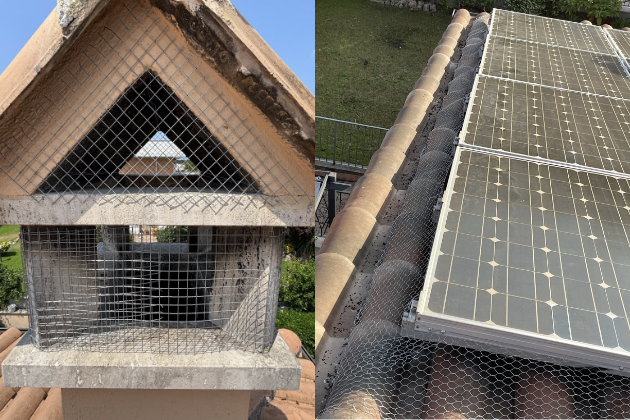
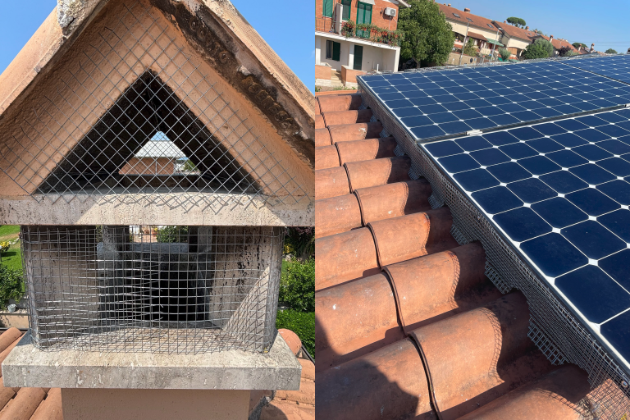
pictures

diff --git a/index.html b/index.html
@@ -46,7 +46,7 @@
         </div>
         <div class="img">
           <img
-            src="./src/images/cortesini_brothers.webp"
+            src="./src/images/cortesini_brothers_2.webp"
             alt="Fratelli Cortesini" />
         </div>
       </section>
@@ -105,7 +105,7 @@
               </div>
               <div class="img">
                 <img
-                  src="./src/images/tegole.webp"
+                  src="./src/images/tegole_2.webp"
                   alt="Tetto con tegole, prima e dopo." />
               </div>
             </div>
